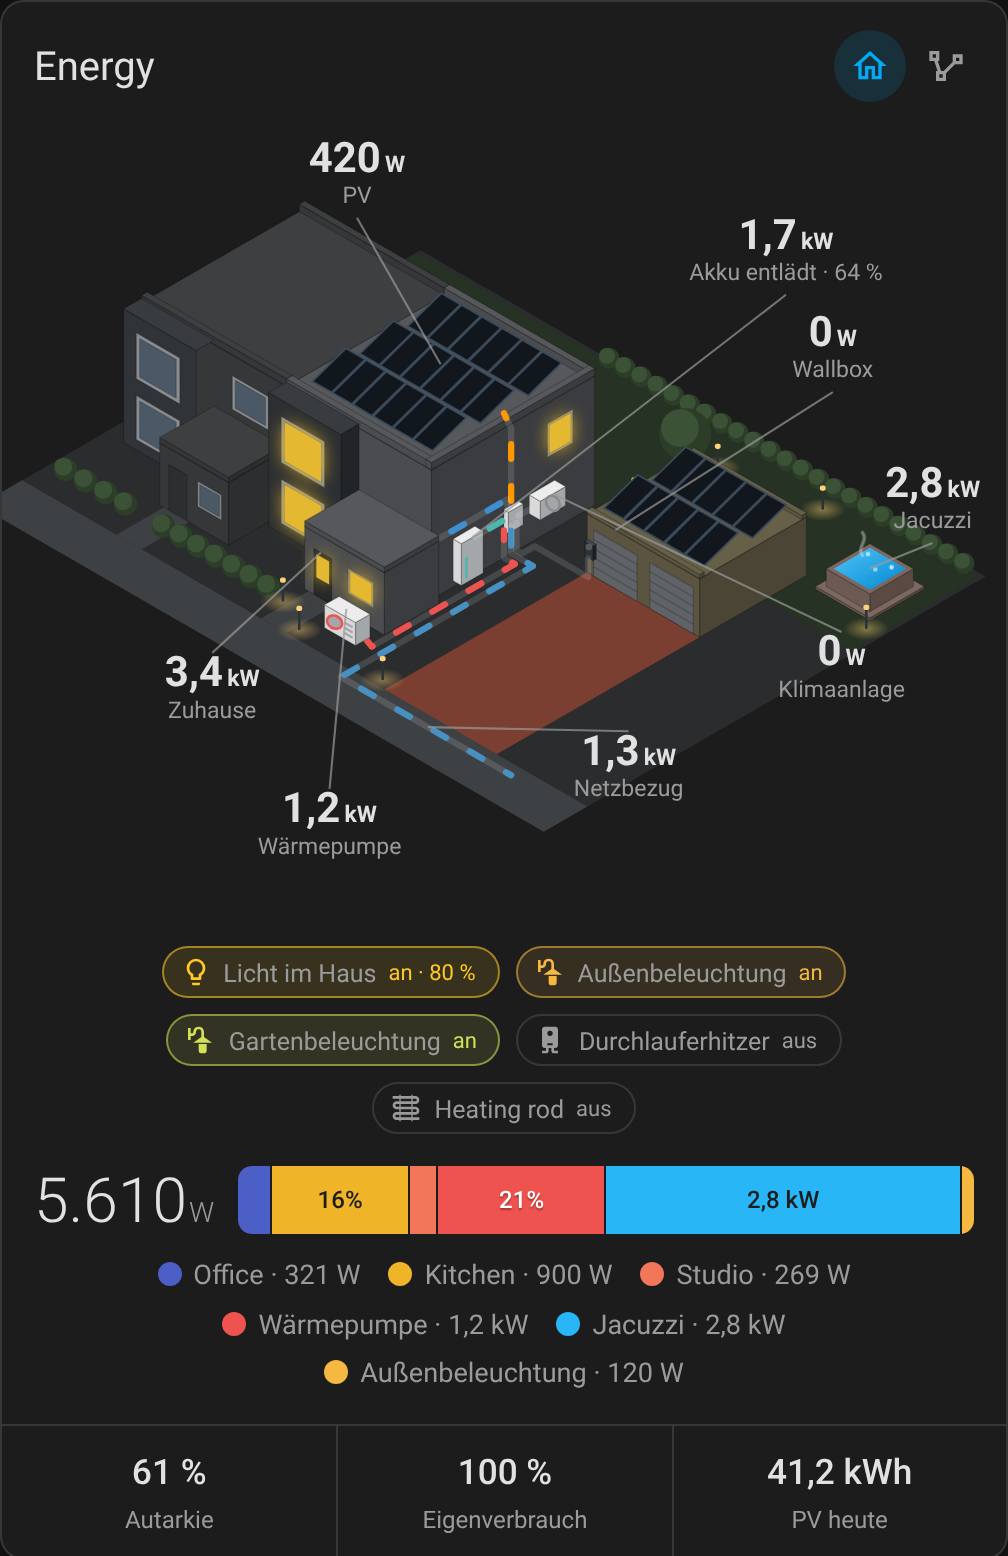
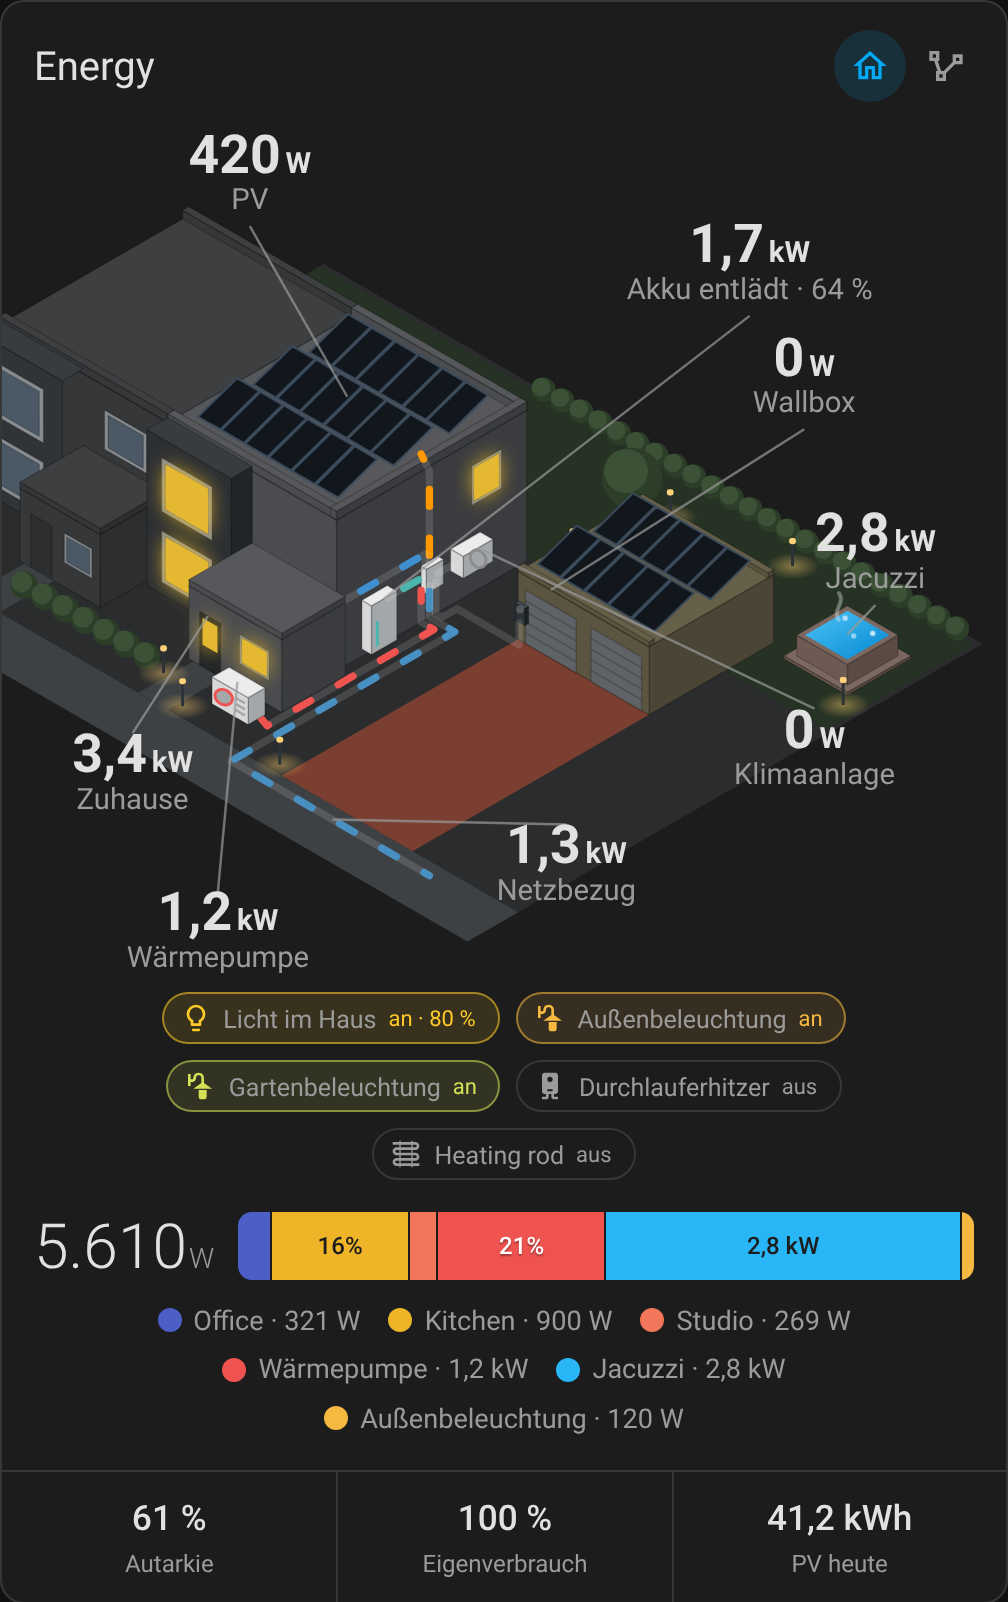
Terraced motif: crop the drawing at the neighbour house
The visible drawing now starts inside the neighbour house, so our house,
garages and garden fill about 15 % more of the card. Labels are kept
inside the cropped area.

Claude-Session: https://claude.ai/code/session_01DpoPNKA5wppDXtEv39Y1FU

diff --git a/src/views/terraced.ts b/src/views/terraced.ts
@@ -91,6 +91,9 @@ function bollard(x: number, y: number, uid: string): string {
     + `<rect class="lamp-head" x="${f1(t[0] - 0.14 * S)}" y="${f1(t[1] - 0.25 * S)}" width="${f1(0.28 * S)}" height="${f1(0.25 * S)}" rx="1"/>`;
 }
 
+/** Left edge of the visible drawing: cuts through the neighbour house so our house gets more room. */
+const VIEW_X = 68;
+
 // ---- layout constants
 const H = 6.2, X1 = 8, Y1 = 9;
 const GX0 = 11, GY0 = -2.5, GY1 = 3.4, GW = 3.1, GARAGES = 2;
@@ -235,7 +238,7 @@ export function renderTerraced(ctx: ViewContext, uid: string): SVGTemplateResult
   const label = (anchor: V3, dx: number, dy: number, watts: number, name: string, entity?: string, stack = 0) => {
     const [value, unit] = ctx.power(watts);
     const a = P(anchor), y = a[1] + dy + stack * (k - 1);
-    const x = clampLabelX(a[0] + dx, `${value} ${unit}`, name, 22 * k, 12 * k, 480);
+    const x = clampLabelX(a[0] + dx, `${value} ${unit}`, name, 22 * k, 12 * k, 480, VIEW_X);
     const c = clickable(ctx, entity);
     return svg`
       <line class="leader" x1=${f1(a[0])} y1=${f1(a[1])} x2=${f1(x)} y2=${f1(y + (dy < 0 ? 22 * k : -16 * k))}></line>
@@ -256,7 +259,7 @@ export function renderTerraced(ctx: ViewContext, uid: string): SVGTemplateResult
     (f.charge ? t("label.battery_charging") : f.discharge ? t("label.battery_discharging") : t("label.battery")) + socLabel;
 
   return svg`
-    <svg class="scene terraced" viewBox="0 4 480 362" role="img" aria-label=${t("label.view_house")}
+    <svg class="scene terraced" viewBox="${VIEW_X} 4 ${480 - VIEW_X} 362" role="img" aria-label=${t("label.view_house")}
       style=${`--vce-indoor:${indoor?.on ? (0.25 + 0.75 * indoor.brightness).toFixed(2) : 0};--vce-indoor-color:${indoor?.color ?? "#ffca28"}`}>
       <defs>
         <radialGradient id="${uid}-pool"><stop offset="0" stop-color="#ffcf6e" stop-opacity=".45"></stop><stop offset="1" stop-color="#ffcf6e" stop-opacity="0"></stop></radialGradient>

diff --git a/src/views/context.ts b/src/views/context.ts
@@ -24,9 +24,17 @@ export const labelScale = (ctx: ViewContext): number => (ctx.config.label_scale 
  * Keeps a centred label inside the drawing: estimates its width from the longer of
  * value line and name line and moves the x position away from the edges.
  */
-export function clampLabelX(x: number, value: string, name: string, valuePx: number, namePx: number, width: number): number {
+export function clampLabelX(
+  x: number,
+  value: string,
+  name: string,
+  valuePx: number,
+  namePx: number,
+  maxX: number,
+  minX = 0,
+): number {
   const half = Math.max(value.length * valuePx * 0.66, name.length * namePx * 0.68) / 2 + 10;
-  return Math.min(width - half, Math.max(half, x));
+  return Math.min(maxX - half, Math.max(minX + half, x));
 }
 
 export const COLOR = {
